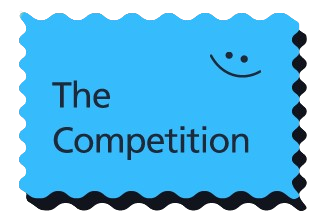
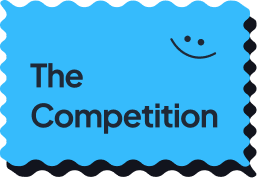
Fix the competition layout

diff --git a/src/app/(components)/competition.tsx b/src/app/(components)/competition.tsx
@@ -1,9 +1,12 @@
 import React from 'react';
+import { Caveat } from "next/font/google";
+
+const caveat = Caveat({ subsets: ["latin"] });
 
 const Competition: React.FC = () => {
     return (
-        <div className="p-6  rounded-lg shadow-md max-w-full mx-auto">
-            <div className="flex justify-between lg:flex-row mb-4 px-8 lg:px-32">
+        <div className="p-6 rounded-lg max-w-full pt-16 mx-auto">
+            <div className="flex justify-between lg:flex-row mb-4">
                 <div className="w-full lg:w-1/3 flex flex-col justify-between items-start mb-4 lg:mb-0 lg:mr-4">
                     <div className="relative w-full h-64 mb-4">
                         <img
@@ -18,15 +21,15 @@ const Competition: React.FC = () => {
                         />
                     </div>
                     <div className="text-left">
-                        <h1 className="text-[1.5rem] font-normal leading-8 tracking-tight text-left bg-white text-gray-800 font-frutiger">Categories</h1>
-                        <h2 className="text-[4rem] font-caveat font-normal leading-[4.5rem] tracking-tight text-left bg-white text-[#1F2937]">Season 1</h2>
-                        <p className="mt-4 text-[1rem] font-normal leading-6 tracking-tight text-left bg-white text-gray-800 font-frutiger">
+                        <h1 className="text-[1.5rem] font-semibold leading-8 tracking-tight text-left bg-white text-gray-800 font-frutiger">Categories</h1>
+                        <h2 className={`${caveat.className} text-[4rem] font-caveat font-normal leading-[4.5rem] tracking-tight text-left bg-white text-[#1F2937]`}>Season 1</h2>
+                        <p className="mt-4 text-[1rem] font-medium leading-6 tracking-tight text-left bg-white text-gray-800 font-frutiger">
                             The Athletics Kids Cup is organised in age categories. There is one category per age group. There are rankings for girls and boys. The Athletics Kids Cup 2024/2025 is open to children who will be 15 years old or younger in 2024 (born in 2009 or later).
                         </p>
                     </div>
                 </div>
                 <div className="text-left">
-                    <table className="block w-full h-11/12 justify-end bg-white border-2 border-gray-800 rounded-3xl shadow-black shadow-lg overflow-hidden">
+                    <table className="block w-full h-11/12 justify-end bg-white border-2 border-gray-800 rounded-3xl shadow-[4px_6px_0_#12141d] overflow-hidden">
                         <thead>
                             <tr className="bg-gray-800 text-white text-left font-bold">
                                 <th className="w-[15.625rem] h-[3.625rem] py-3 px-6 border">Born in</th>
@@ -46,7 +49,7 @@ const Competition: React.FC = () => {
                                 { year: 2016, girls: 'G8', boys: 'B8' },
                                 { year: "2017 and younger", girls: 'G7*', boys: 'B7' },
                             ].map((row) => (
-                                <tr key={row.year} className="even:bg-gray-50">
+                                <tr key={row.year} className="even:bg-gray-50 h-[52px]">
                                     <td className="py-2 px-4 border font-bold text-gray-800">{row.year}</td>
                                     <td className="py-2 px-4 border font-bold text-gray-800">{row.girls}</td>
                                     <td className="py-2 px-4 border font-bold text-gray-800">{row.boys}</td>
@@ -54,7 +57,7 @@ const Competition: React.FC = () => {
                             ))}
                         </tbody>
                     </table>
-                    <p className="text-left mt-4 italic text-gray-600">
+                    <p className="text-left mt-4 text-gray-600 max-w-[335px]">
                         * In the categories G7 and B7 also younger children are allowed to start.
                     </p>
                 </div>

diff --git a/src/app/home/page.tsx b/src/app/home/page.tsx
@@ -6,7 +6,7 @@ import ValueProposition from "../(components)/ValueProposition";
 import VideoPlayer from "../(components)/VideoPlayer";
 import HowItWorks from "../how-it-works/page";
 import PreRegistrationButtonWithModal from "../(components)/PreRegistrationButtonWithModal";
-import StaircaseCards from '../(components)/StaircaseCards';
+import StaircaseCards from "../(components)/StaircaseCards";
 import Competition from "../(components)/competition";
 
 export default function Home() {
@@ -90,16 +90,14 @@ export default function Home() {
       </section>
 
       <section id="the-competition" className="mt-20">
-        <div className="the-competition-bg h-[900px]">
-         <Competition/>
+        <div className="the-competition-bg h-[759px]">
+          <Competition />
         </div>
       </section>
+
       <section id="the-cards" className="mt-20">
-      <div >
-      <StaircaseCards />
-    </div>
+        <StaircaseCards />
       </section>
-      <section>{/* TODO: The Tables */}</section>
 
       <section id="pre-registration">
         <div className="relative flex h-[370px]">
